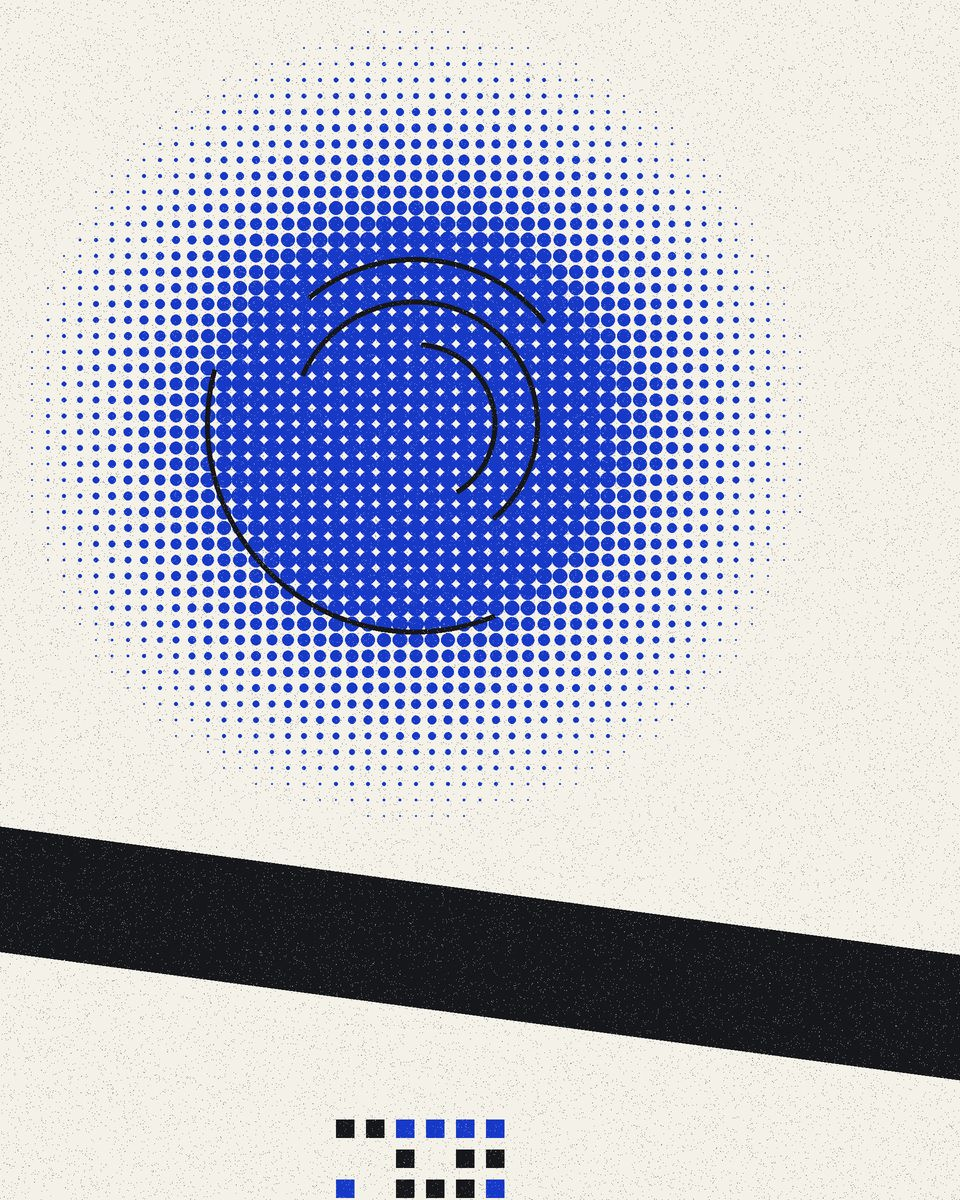
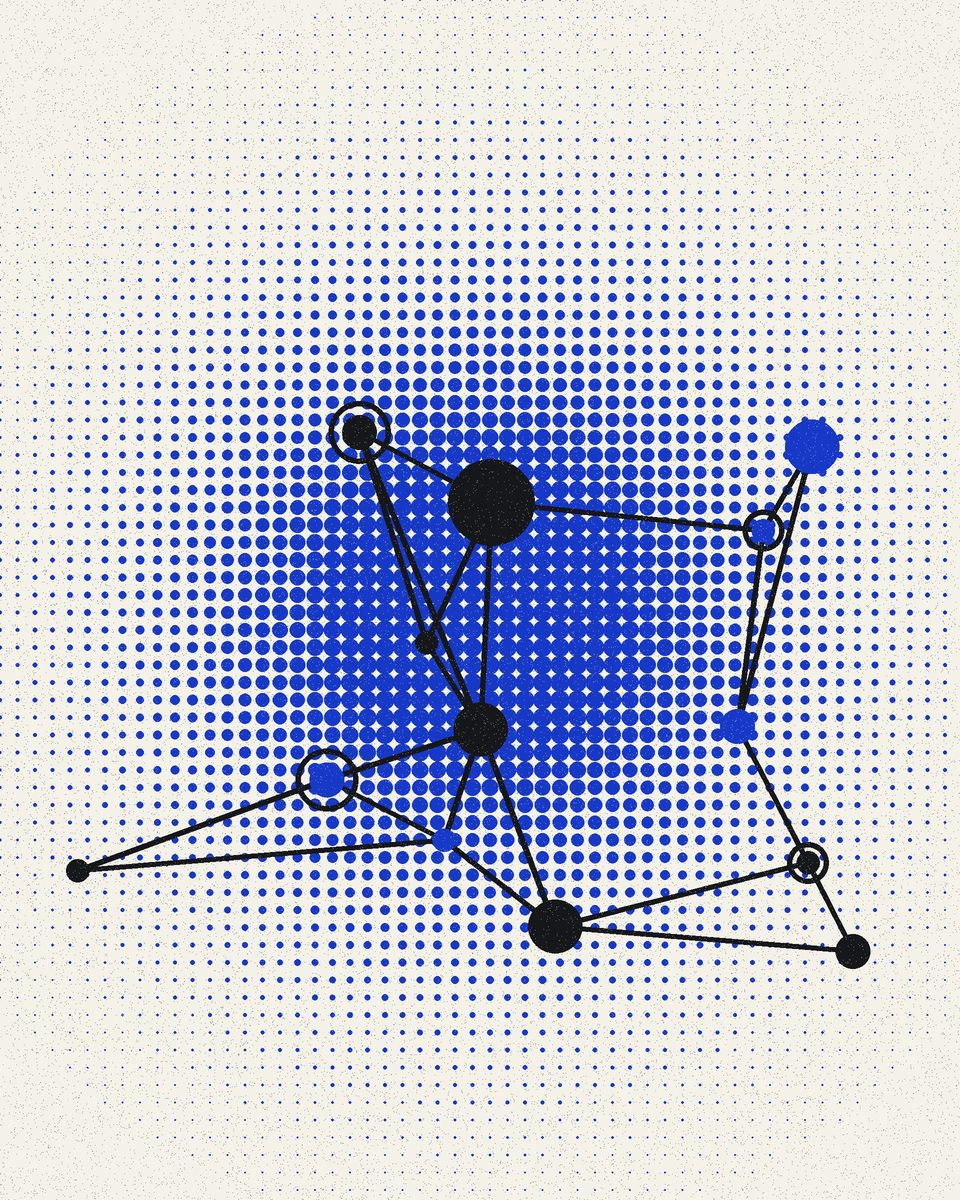
Quotidiano: 8 composizioni per il poster generato, didascalia solo 'Grafica generata dal Quotidiano dell'AI.' (#14)
I poster ruotano con la data (disco, sole, diagonali, griglia, rete, onde,
triangoli, colonne), sempre in bicromia inchiostro + colore del giorno a
mezzatinta. Rigenerati i poster del 19-23 novembre. Tolta la caption
'Nessuna foto oggi...' (IT) e 'No photo today...' (EN); l'alt descrive la
composizione.

Claude-Session: https://claude.ai/code/session_01JWK7znzoAkJj5VJ3uLwiYQ

diff --git a/scripts/foto.py b/scripts/foto.py
@@ -108,48 +108,191 @@ def pexels(q):
 # ---------- 3. Poster generato ----------
 # stessi colori di DAY_COLORS in quotidiano/index.html (0 = domenica; la domenica usa l'accento arancio)
 DAY = ["#ff6a3d", "#d2452b", "#1f7a4f", "#f2b632", "#6d3fc0", "#1739c9", "#0f6b78"]
+DAY_IT = ["arancione", "rossa", "verde", "gialla", "viola", "blu", "verde petrolio"]
 INK, PAPER = "#16171b", "#f4f1e8"
 
 
+def _halftone(g, W, H, step, col, t, jitter=False):
+    """Retino: un punto ogni `step` px, raggio proporzionale a t(x, y) in [0, 1]."""
+    for row, y in enumerate(range(0, H, step)):
+        off = step // 2 if jitter and row % 2 else 0
+        for x in range(-step, W + step, step):
+            x2 = x + off
+            r = step * .52 * max(0.0, min(1.0, t(x2, y)))
+            if r > 1:
+                g.ellipse([x2 - r, y - r, x2 + r, y + r], fill=col)
+
+
+def _disco(g, W, H, day, rnd):
+    cx, cy, R = rnd.uniform(.35, .65) * W, rnd.uniform(.28, .45) * H, rnd.uniform(.32, .42) * W
+    _halftone(g, W, H, W // 60, day, lambda x, y: 1 - (math.hypot(x - cx, y - cy) - R * .55) / (R * .7))
+    for k in range(rnd.randint(3, 6)):
+        rr, a0 = R * (.25 + .13 * k), rnd.uniform(0, 360)
+        g.arc([cx - rr, cy - rr, cx + rr, cy + rr], a0, a0 + rnd.uniform(60, 220), fill=INK, width=W // 96)
+    a = math.tan(math.radians(rnd.choice([-14, -8, 8, 14])))
+    y0, h = rnd.uniform(.6, .72) * H, rnd.uniform(.08, .13) * H
+    g.polygon([(-50, y0), (W + 50, y0 + a * W), (W + 50, y0 + a * W + h), (-50, y0 + h)], fill=INK)
+    bx, by, u = rnd.uniform(.06, .4) * W, max(y0, y0 + a * W) + h + W * .04, W * .031
+    for i in range(rnd.randint(5, 9)):
+        for j in range(3):
+            if rnd.random() < .75:
+                g.rectangle([bx + i * u, by + j * u, bx + i * u + u * .6, by + j * u + u * .6],
+                            fill=INK if rnd.random() < .6 else day)
+    return "un disco a mezzatinta, archi e una fascia d'inchiostro"
+
+
+def _sole(g, W, H, day, rnd):
+    hy, cx, R = rnd.uniform(.52, .62) * H, rnd.uniform(.3, .7) * W, rnd.uniform(.36, .48) * W
+    _halftone(g, W, int(hy), W // 48, day,
+              lambda x, y: 1.25 - math.hypot(x - cx, y - hy) / R if math.hypot(x - cx, y - hy) < R else 0)
+    g.rectangle([0, hy, W, hy + H * .018], fill=INK)
+    y, k = hy + H * .05, 0
+    while y < H:
+        th = H * (.008 + .005 * k)
+        x0 = rnd.uniform(0, .25) * W if k % 2 else 0
+        g.rectangle([x0, y, W - (rnd.uniform(0, .25) * W if k % 3 == 1 else 0), y + th], fill=INK)
+        y += th + H * (.03 - min(.02, .003 * k)); k += 1
+    r = W * rnd.uniform(.05, .08); sx, sy = rnd.choice([.12, .85]) * W, rnd.uniform(.1, .2) * H
+    g.ellipse([sx - r, sy - r, sx + r, sy + r], fill=INK)
+    return "un sole a mezzatinta che sorge su righe d'inchiostro"
+
+
+def _diagonali(g, W, H, day, rnd):
+    flip = rnd.random() < .5
+    def t(x, y):
+        u = ((W - x) if flip else x) / W * .55 + y / H * .45
+        return u * 1.25 - .15
+    _halftone(g, W, H, W // 40, day, t, jitter=True)
+    ang = math.radians(rnd.choice([30, 38, 45, 52])) * (-1 if flip else 1)
+    dx, dy = math.cos(ang), math.sin(ang)
+    nx, ny = -dy, dx
+    c0 = rnd.uniform(-.15, .05) * W
+    for i, (w, col) in enumerate([(rnd.uniform(.06, .1), INK), (rnd.uniform(.02, .035), INK),
+                                  (rnd.uniform(.05, .08), day), (rnd.uniform(.015, .03), INK)]):
+        c = c0 + i * W * rnd.uniform(.13, .2)
+        L = W * 3
+        px, py = W / 2 + nx * c, H / 2 + ny * c
+        ww = w * W
+        g.polygon([(px - dx * L, py - dy * L), (px + dx * L, py + dy * L),
+                   (px + dx * L + nx * ww, py + dy * L + ny * ww), (px - dx * L + nx * ww, py - dy * L + ny * ww)], fill=col)
+    return "fasce diagonali d'inchiostro su un fondo a mezzatinta"
+
+
+def _griglia(g, W, H, day, rnd):
+    cols, rows = 4, 5
+    m = W * .07; cw = (W - 2 * m) / cols; ch = (H - 2 * m) / rows; s = min(cw, ch)
+    for i in range(cols):
+        for j in range(rows):
+            x, y = m + i * cw, m + j * ch
+            kind = rnd.choice(["q", "q", "h", "c", "dot", "sq", "none"])
+            col = INK if rnd.random() < .55 else day
+            if kind == "q":
+                cx, cy = x + rnd.choice([0, s]), y + rnd.choice([0, s])
+                start = {(x, y): 0, (x + s, y): 90, (x + s, y + s): 180, (x, y + s): 270}[(cx, cy)]
+                g.pieslice([cx - s, cy - s, cx + s, cy + s], start, start + 90, fill=col)
+            elif kind == "h":
+                o = rnd.choice([0, 90, 180, 270])
+                g.pieslice([x, y, x + s, y + s], o, o + 180, fill=col)
+            elif kind == "c":
+                g.ellipse([x + s * .12, y + s * .12, x + s * .88, y + s * .88], fill=col)
+            elif kind == "dot":
+                st = int(s / 7)
+                _halftone(g, int(x + s), int(y + s), st, day,
+                          lambda px, py, x=x, y=y: (1 - (py - y) / s) * 1.1 if x <= px <= x + s and y <= py <= y + s else 0)
+            elif kind == "sq":
+                g.rectangle([x + s * .2, y + s * .2, x + s * .8, y + s * .8], outline=col, width=int(W * .014))
+    return "una griglia di quarti di cerchio, cerchi e quadrati"
+
+
+def _rete(g, W, H, day, rnd):
+    cx, cy, R = rnd.uniform(.35, .65) * W, rnd.uniform(.35, .6) * H, rnd.uniform(.35, .5) * W
+    _halftone(g, W, H, W // 54, day, lambda x, y: math.exp(-((x - cx) ** 2 + (y - cy) ** 2) / (2 * (R * .55) ** 2)) * 1.15)
+    pts = [(rnd.uniform(.08, .92) * W, rnd.uniform(.08, .92) * H) for _ in range(rnd.randint(11, 16))]
+    for a in pts:
+        near = sorted(pts, key=lambda b: math.hypot(a[0] - b[0], a[1] - b[1]))[1:4]
+        for b in near[:rnd.randint(2, 3)]:
+            g.line([a, b], fill=INK, width=int(W * .006))
+    for k, (x, y) in enumerate(pts):
+        r = W * rnd.choice([.012, .018, .028, .045])
+        if k % 4 == 0:
+            g.ellipse([x - r * 1.8, y - r * 1.8, x + r * 1.8, y + r * 1.8], outline=INK, width=int(W * .006))
+        g.ellipse([x - r, y - r, x + r, y + r], fill=INK if k % 3 else day)
+    return "una rete di nodi e linee d'inchiostro su una nube a mezzatinta"
+
+
+def _onde(g, W, H, day, rnd):
+    f, ph, amp = rnd.uniform(2.5, 4.5), rnd.uniform(0, 6.3), rnd.uniform(.04, .09) * H
+    _halftone(g, W, H, W // 50, day,
+              lambda x, y: .5 + .6 * math.sin(f * 2 * math.pi * (y + amp * math.sin(x / W * 2 * math.pi * 1.3 + ph)) / H))
+    R = W * rnd.uniform(.22, .3); cx = rnd.choice([.3, .5, .7]) * W; cy = rnd.uniform(.3, .65) * H
+    g.ellipse([cx - R, cy - R, cx + R, cy + R], fill=INK)
+    r2 = R * rnd.uniform(.35, .5); ox = rnd.uniform(-.3, .3) * R
+    g.ellipse([cx + ox - r2, cy - r2, cx + ox + r2, cy + r2], fill=day)
+    for k in range(3):
+        x = rnd.uniform(.05, .95) * W
+        g.rectangle([x, 0, x + W * .012, H], fill=INK)
+    return "onde a mezzatinta e un grande cerchio d'inchiostro"
+
+
+def _triangoli(g, W, H, day, rnd):
+    ax = rnd.uniform(.2, .8) * W
+    big = [(ax, H * rnd.uniform(.05, .15)), (W * rnd.uniform(-.1, .1), H * .92), (W * rnd.uniform(.9, 1.1), H * .92)]
+    ia = lambda p, q, r: (p[0] * (q[1] - r[1]) + q[0] * (r[1] - p[1]) + r[0] * (p[1] - q[1]))
+    def inside(x, y, T):
+        a, b, c = T; s1 = ia((x, y), a, b); s2 = ia((x, y), b, c); s3 = ia((x, y), c, a)
+        return (s1 >= 0 and s2 >= 0 and s3 >= 0) or (s1 <= 0 and s2 <= 0 and s3 <= 0)
+    _halftone(g, W, H, W // 44, day, lambda x, y: (y / H) * 1.2 if inside(x, y, big) else 0)
+    s = W * rnd.uniform(.3, .42); tx, ty = rnd.uniform(.2, .8) * W, rnd.uniform(.35, .65) * H
+    up = rnd.random() < .5
+    g.polygon([(tx, ty - s * .6 if up else ty + s * .6), (tx - s * .6, ty + s * .4 if up else ty - s * .4),
+               (tx + s * .6, ty + s * .4 if up else ty - s * .4)], fill=INK)
+    g.rectangle([0, H * .92, W, H * .935], fill=INK)
+    for k in range(rnd.randint(4, 7)):
+        y = H * (.05 + .035 * k); x0 = rnd.choice([.05, .6]) * W
+        g.rectangle([x0, y, x0 + W * rnd.uniform(.12, .32), y + H * .007], fill=INK)
+    return "triangoli sovrapposti d'inchiostro e a mezzatinta"
+
+
+def _colonne(g, W, H, day, rnd):
+    n = rnd.randint(6, 9); m = W * .08; cw = (W - 2 * m) / n; base = H * .82
+    hs = [rnd.uniform(.15, .65) * H for _ in range(n)]
+    if rnd.random() < .6:
+        hs.sort(reverse=rnd.random() < .5)
+    for i, h in enumerate(hs):
+        x0, x1, top = m + i * cw + cw * .12, m + (i + 1) * cw - cw * .12, base - h
+        if i % 3 == rnd.randint(0, 2):
+            g.rectangle([x0, top, x1, base], fill=INK)
+        else:
+            _halftone(g, int(x1) + 1, int(base), int(cw / 5),
+                      day, lambda x, y, x0=x0, x1=x1, top=top: (1.15 - (y - top) / h * .7) if x0 <= x <= x1 and y >= top else 0)
+    g.rectangle([0, base, W, base + H * .02], fill=INK)
+    R = W * rnd.uniform(.08, .13); cx = rnd.uniform(.2, .8) * W; cy = H * rnd.uniform(.08, .2) + R
+    g.ellipse([cx - R, cy - R, cx + R, cy + R], fill=day)
+    g.ellipse([cx - R, cy - R, cx + R, cy + R], outline=INK, width=int(W * .01))
+    return "colonne a mezzatinta come un grafico, sotto un disco"
+
+
+LAYOUTS = [_disco, _sole, _diagonali, _griglia, _rete, _onde, _triangoli, _colonne]
+
+
 def poster(name, seed, path, W=960, H=1200):
+    """Poster astratto in bicromia (inchiostro + colore del giorno) a mezzatinta.
+    La composizione ruota con la data (passo 3 su 8): due giorni di fila non si somigliano
+    e la coppia colore/composizione si ripete solo ogni 56 giorni. Restituisce l'alt."""
     from PIL import Image, ImageDraw
     date = datetime.date.fromisoformat(name[:10])
-    day = DAY[(date.weekday() + 1) % 7]
+    wd = (date.weekday() + 1) % 7
+    day = DAY[wd]
     rnd = random.Random(hashlib.md5((name + seed).encode()).hexdigest())
     S = 2
     im = Image.new("RGB", (W * S, H * S), PAPER)
     g = ImageDraw.Draw(im)
-    # grande disco a mezzatinta nel colore del giorno
-    cx, cy = rnd.uniform(.4, .65) * W * S, rnd.uniform(.28, .45) * H * S
-    R = rnd.uniform(.32, .42) * W * S
-    step = 16 * S
-    for y in range(0, H * S, step):
-        for x in range(0, W * S, step):
-            t = max(0, min(1, 1 - (math.hypot(x - cx, y - cy) - R * .55) / (R * .7)))
-            r = step * .52 * t
-            if r > 1:
-                g.ellipse([x - r, y - r, x + r, y + r], fill=day)
-    # anelli d'inchiostro
-    for k in range(rnd.randint(3, 6)):
-        rr = R * (.25 + .13 * k)
-        a0 = rnd.uniform(0, 360)
-        g.arc([cx - rr, cy - rr, cx + rr, cy + rr], a0, a0 + rnd.uniform(60, 220), fill=INK, width=5 * S)
-    # fascia d'inchiostro inclinata
-    a = math.tan(math.radians(rnd.choice([-14, -8, 8, 14])))
-    y0, h = rnd.uniform(.6, .72) * H * S, rnd.uniform(.08, .13) * H * S
-    g.polygon([(-50, y0), (W * S + 50, y0 + a * W * S), (W * S + 50, y0 + a * W * S + h), (-50, y0 + h)], fill=INK)
-    # griglia di quadratini sotto la fascia
-    bx, by, u = rnd.uniform(.06, .4) * W * S, max(y0, y0 + a * W * S) + h + 36 * S, 30 * S
-    for i in range(rnd.randint(5, 9)):
-        for j in range(3):
-            if rnd.random() < .75:
-                g.rectangle([bx + i * u, by + j * u, bx + i * u + 18 * S, by + j * u + 18 * S],
-                            fill=INK if rnd.random() < .6 else day)
-    # grana di stampa
-    px = im.load()
+    desc = LAYOUTS[(date.toordinal() * 3) % len(LAYOUTS)](g, W * S, H * S, day, rnd)
+    px = im.load()  # grana di stampa
     for _ in range(W * H // 12):
         px[rnd.randrange(W * S), rnd.randrange(H * S)] = (244, 241, 232) if rnd.random() < .5 else (40, 40, 44)
     im.resize((W, H), Image.LANCZOS).save(path, quality=80, optimize=True)
+    return f"Composizione astratta in bicromia {DAY_IT[wd]} e nera: {desc}"
 
 
 def main():
@@ -179,12 +322,9 @@ def main():
             return
     if use_poster:
         img.parent.mkdir(parents=True, exist_ok=True)
-        poster(name, " ".join(queries), img)
+        alt = poster(name, " ".join(queries), img)
         log("Nessuna foto trovata: generato il poster di riserva")
-        print(json.dumps({"file": f"img/{name}.jpg", "illustration": True, "generated": True,
-                          "alt": "Composizione astratta in bicromia: un disco a mezzatinta nel colore del giorno, "
-                                 "anelli e una fascia d'inchiostro",
-                          "caption": "Nessuna foto oggi: composizione astratta nel colore del giorno.",
+        print(json.dumps({"file": f"img/{name}.jpg", "illustration": True, "generated": True, "alt": alt,
                           "credit": "Grafica generata dal Quotidiano dell'AI.",
                           "author": "Grafica generata dal Quotidiano dell'AI",
                           "source": "Il Quotidiano dell'AI"}, ensure_ascii=False))

diff --git a/scripts/FOTO.md b/scripts/FOTO.md
@@ -12,11 +12,11 @@ Regole per la routine giornaliera (passo "foto"). La storia d'apertura è il pri
    Lo script prova, in ordine:
    - **Wikimedia Commons** (solo licenze libere). L'IP del cloud è condiviso e Wikimedia risponde spesso 429: lo script rispetta `Retry-After` e aspetta fino a ~4 minuti. Con la variabile `WIKIMEDIA_TOKEN` le richieste sono autenticate.
    - **Pexels**, solo se è impostata `PEXELS_API_KEY` (servono anche i domini `api.pexels.com` e `images.pexels.com` nella rete dell'ambiente).
-   - **Poster generato**: composizione astratta in bicromia con il colore del giorno, 4:5. Non serve rete.
+   - **Poster generato**: composizione astratta in bicromia (inchiostro + colore del giorno), retino a mezzatinta, 4:5. Non serve rete. Ci sono 8 composizioni (disco, sole, diagonali, griglia, rete, onde, triangoli, colonne) che ruotano con la data, quindi due giorni di fila non si somigliano.
 
    Salva `quotidiano/img/<data>.jpg` e stampa il JSON da mettere in `photo`.
 3. Guarda l'immagine scaricata (Read). Se è una foto che non c'entra o è fuorviante, cancellala e riprova con altre query.
 4. Campo `photo`:
    - **Foto** (`source` "Wikimedia Commons" o "Pexels"): sostituisci `alt` con una breve descrizione italiana di ciò che si vede e aggiungi `caption` = "Immagine di repertorio: ..." (mai dire che mostra l'evento).
-   - **Poster generato** (`"generated": true`): tieni il JSON così com'è, compresi `illustration`, `caption` e `credit`. Nell'`alt` puoi nominare il colore (es. "viola e nera").
-5. Edizione inglese (`en/quotidiano/data/issues.json`), se la routine la aggiorna: stessa immagine con `file` = `../../quotidiano/img/<data>.jpg` e testi tradotti; per il poster `caption` "No photo today: an abstract composition in the colour of the day.", `credit` "Graphic generated by The AI Daily.", `author` "Graphic generated by The AI Daily", `source` "The AI Daily".
+   - **Poster generato** (`"generated": true`): tieni il JSON così com'è (`illustration`, `alt` già descrittivo, `credit`). Niente `caption`: sotto l'immagine compare solo "Grafica generata dal Quotidiano dell'AI."
+5. Edizione inglese (`en/quotidiano/data/issues.json`), se la routine la aggiorna: stessa immagine con `file` = `../../quotidiano/img/<data>.jpg` e testi tradotti; per il poster niente `caption`, `alt` tradotto, `credit` "Graphic generated by The AI Daily.", `author` "Graphic generated by The AI Daily", `source` "The AI Daily".
